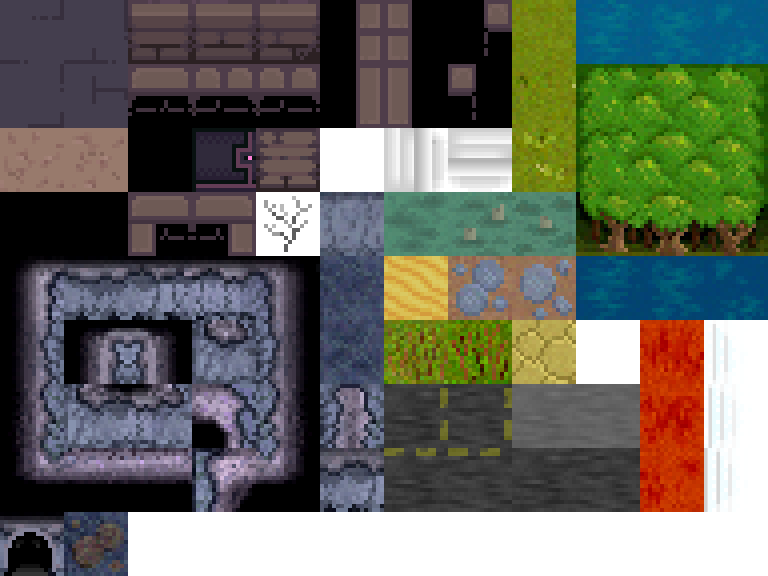
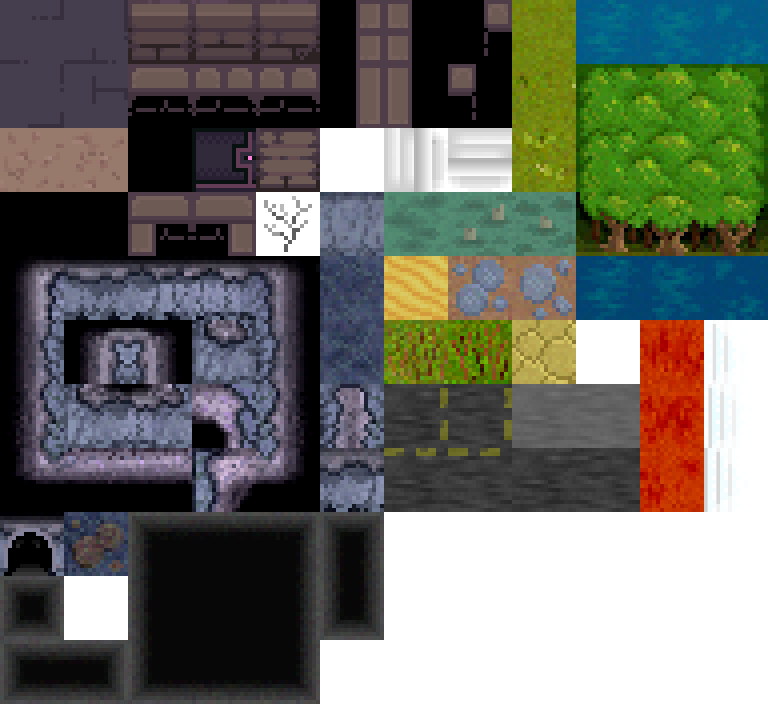
chasm terrain

diff --git a/src/main/kotlin/render/tileholders/ChasmTile.kt b/src/main/kotlin/render/tileholders/ChasmTile.kt
@@ -1,0 +1,68 @@
+package render.tileholders
+
+import render.tilesets.Glyph
+import render.tilesets.TileSet
+import util.*
+import world.level.Level
+
+class ChasmTile(
+    set: TileSet,
+    val neighborType: Glyph,
+): TileHolder(set) {
+
+    enum class Slot { SOLO, LEFTCAP, RIGHTCAP, TOPLEFT, TOP, TOPRIGHT, LEFT, MIDDLE, RIGHT, BOTTOMLEFT, BOTTOM, BOTTOMRIGHT, TOPCAP, BOTTOMCAP }
+
+    private val variants = HashMap<Slot, ArrayList<Triple<Float, Int, Int>>>()
+
+    fun add(slot: Slot, frequency: Float, tx: Int, ty: Int) {
+        variants[slot]?.also {
+            it.add(Triple(frequency, tx, ty))
+        } ?: run {
+            variants[slot] = ArrayList<Triple<Float, Int, Int>>().apply { add(Triple(frequency, tx, ty)) }
+        }
+    }
+
+    override fun getTextureIndex(level: Level?, x: Int, y: Int): Int {
+        level?.also { level ->
+            var bucket = variants[Slot.SOLO]
+            val nWest = neighborTo(level,x,y, WEST)
+            val nEast = neighborTo(level,x,y, EAST)
+            val nNorth = neighborTo(level,x,y, NORTH)
+            val nSouth = neighborTo(level,x,y, SOUTH)
+            if (nWest && nEast && nNorth && nSouth) {
+                bucket = variants[Slot.MIDDLE]
+            } else if (nEast && !nWest && !nNorth && !nSouth) {
+                bucket = variants[Slot.LEFTCAP]
+            } else if (nWest && !nEast && !nNorth && !nSouth) {
+                bucket = variants[Slot.RIGHTCAP]
+            } else if (nNorth && !nSouth && !nWest && !nEast) {
+                bucket = variants[Slot.BOTTOMCAP]
+            } else if (nSouth && !nNorth && !nWest && !nEast) {
+                bucket = variants[Slot.TOPCAP]
+            } else if (nNorth && nEast && !nWest && !nSouth) {
+                bucket = variants[Slot.BOTTOMLEFT]
+            } else if (nNorth && nEast && nWest && !nSouth) {
+                bucket = variants[Slot.BOTTOM]
+            } else if (nNorth && nWest && !nEast && !nSouth) {
+                bucket = variants[Slot.BOTTOMRIGHT]
+            } else if (nNorth && nSouth && nEast && !nWest) {
+                bucket = variants[Slot.LEFT]
+            } else if (!nNorth && nSouth && nEast && !nWest) {
+                bucket = variants[Slot.TOPLEFT]
+            } else if (!nNorth && nSouth && !nEast && nWest) {
+                bucket = variants[Slot.TOPRIGHT]
+            } else if (nNorth && nSouth && !nEast && nWest) {
+                bucket = variants[Slot.RIGHT]
+            }
+            return pickIndexFromVariants(level.getRandom(x,y), bucket!!)
+        }
+        return 0
+    }
+
+    protected fun neighborAt(level: Level, x: Int, y: Int) = level.getGlyph(x, y) == neighborType
+    protected fun visibleAt(level: Level, x: Int, y: Int) = level.visibilityAt(x, y) == 1f
+    protected fun visibleTo(level: Level, x: Int, y: Int, dir: XY) = level.visibilityAt(x + dir.x, y + dir.y) == 1f
+    protected fun neighborTo(level: Level, x: Int, y: Int, dir: XY) = neighborAt(level, x + dir.x, y + dir.y)
+    protected fun openTo(level: Level, x: Int, y: Int, dir: XY) = visibleAt(level,x+dir.x,y+dir.y) && level.getGlyph(x+dir.x,y+dir.y) != neighborType
+
+}

diff --git a/src/main/kotlin/render/tileholders/WallTile.kt b/src/main/kotlin/render/tileholders/WallTile.kt
@@ -113,9 +113,9 @@ class WallTile(
         return 0
     }
 
-    private fun neighborAt(level: Level, x: Int, y: Int) = level.getGlyph(x, y) == neighborType
-    private fun visibleAt(level: Level, x: Int, y: Int) = level.visibilityAt(x, y) == 1f
-    private fun visibleTo(level: Level, x: Int, y: Int, dir: XY) = level.visibilityAt(x + dir.x, y + dir.y) == 1f
-    private fun neighborTo(level: Level, x: Int, y: Int, dir: XY) = neighborAt(level, x + dir.x, y + dir.y)
-    private fun openTo(level: Level, x: Int, y: Int, dir: XY) = visibleAt(level,x+dir.x,y+dir.y) && level.getGlyph(x+dir.x,y+dir.y) != neighborType
+    protected fun neighborAt(level: Level, x: Int, y: Int) = level.getGlyph(x, y) == neighborType
+    protected fun visibleAt(level: Level, x: Int, y: Int) = level.visibilityAt(x, y) == 1f
+    protected fun visibleTo(level: Level, x: Int, y: Int, dir: XY) = level.visibilityAt(x + dir.x, y + dir.y) == 1f
+    protected fun neighborTo(level: Level, x: Int, y: Int, dir: XY) = neighborAt(level, x + dir.x, y + dir.y)
+    protected fun openTo(level: Level, x: Int, y: Int, dir: XY) = visibleAt(level,x+dir.x,y+dir.y) && level.getGlyph(x+dir.x,y+dir.y) != neighborType
 }

diff --git a/src/main/kotlin/render/tilesets/TerrainTileSet.kt b/src/main/kotlin/render/tilesets/TerrainTileSet.kt
@@ -129,7 +129,23 @@ fun TerrainTileSet() =
             add(WallTile.Slot.CAP_LEFT, 1f, 9, 3)
             add(WallTile.Slot.CAP_RIGHT, 1f, 11, 3)
             add(WallTile.Slot.FULL, 1f, 10, 2)
+        })
 
+        setTile(Glyph.CHASM, ChasmTile(this, Glyph.CHASM).apply {
+            add(ChasmTile.Slot.SOLO, 1f, 0, 9)
+            add(ChasmTile.Slot.LEFTCAP, 1f, 0, 10)
+            add(ChasmTile.Slot.RIGHTCAP, 1f, 1, 10)
+            add(ChasmTile.Slot.TOPLEFT, 1f, 2, 8)
+            add(ChasmTile.Slot.TOP, 1f, 3, 8)
+            add(ChasmTile.Slot.TOPRIGHT, 1f, 4, 8)
+            add(ChasmTile.Slot.TOPCAP, 1f, 5, 8)
+            add(ChasmTile.Slot.LEFT, 1f, 3, 9)
+            add(ChasmTile.Slot.MIDDLE, 1f, 4, 9)
+            add(ChasmTile.Slot.RIGHT, 1f, 5, 9)
+            add(ChasmTile.Slot.BOTTOMCAP, 1f, 6, 9)
+            add(ChasmTile.Slot.BOTTOMLEFT, 1f, 3, 10)
+            add(ChasmTile.Slot.BOTTOM, 1f, 4, 10)
+            add(ChasmTile.Slot.BOTTOMRIGHT, 1f, 5, 10)
         })
 
         setTile(Glyph.WALL_DAMAGE, SimpleTile(this, 4, 3))

diff --git a/src/main/kotlin/render/tilesets/SpriteSheets.kt b/src/main/kotlin/render/tilesets/SpriteSheets.kt
@@ -17,7 +17,7 @@ object SpriteSheets {
             "sheets/tiles_mob.png", 5, 5, Screen.textureFilter
         ),
         TerrainSprites(
-            "sheets/tiles_terrain.png", 12, 9, Screen.textureFilter
+            "sheets/tiles_terrain.png", 12, 11, Screen.textureFilter
         ),
         ThingSprites(
             "sheets/tiles_thing.png", 11, 11, Screen.textureFilter

diff --git a/src/main/kotlin/world/terrains/Floors.kt b/src/main/kotlin/world/terrains/Floors.kt
@@ -206,7 +206,6 @@ sealed class Highway : Floor(Type.GENERIC_HIGHWAY, Glyph.HIGHWAY_H, false) {
     override fun stepSound(actor: Actor) = Speaker.SFX.STEPHARD
 }
 
-
 object HighwayH : Highway() {
     override fun glyph() = Glyph.HIGHWAY_H
 }

diff --git a/src/main/kotlin/world/terrains/Terrain.kt b/src/main/kotlin/world/terrains/Terrain.kt
@@ -97,7 +97,8 @@ sealed class Terrain(
         TERRAIN_PAVEMENT,
         TERRAIN_HIGHWAY_H,
         TERRAIN_HIGHWAY_V,
-        TERRAIN_LAVA
+        TERRAIN_LAVA,
+        TERRAIN_CHASM,
     }
 
     override fun glyph() = this.glyph

diff --git a/src/main/kotlin/world/terrains/Chasm.kt b/src/main/kotlin/world/terrains/Chasm.kt
@@ -1,0 +1,9 @@
+package world.terrains
+
+import render.tilesets.Glyph
+
+object Chasm : Terrain(Type.TERRAIN_CHASM, Glyph.CHASM, false, true, false, false) {
+
+    override fun name() = "chasm"
+
+}

diff --git a/src/main/kotlin/render/tilesets/Glyph.kt b/src/main/kotlin/render/tilesets/Glyph.kt
@@ -27,6 +27,7 @@ enum class Glyph {
     PAVEMENT,
     HIGHWAY_V,
     HIGHWAY_H,
+    CHASM,
 
     WALL_DAMAGE,
     CURSOR,
